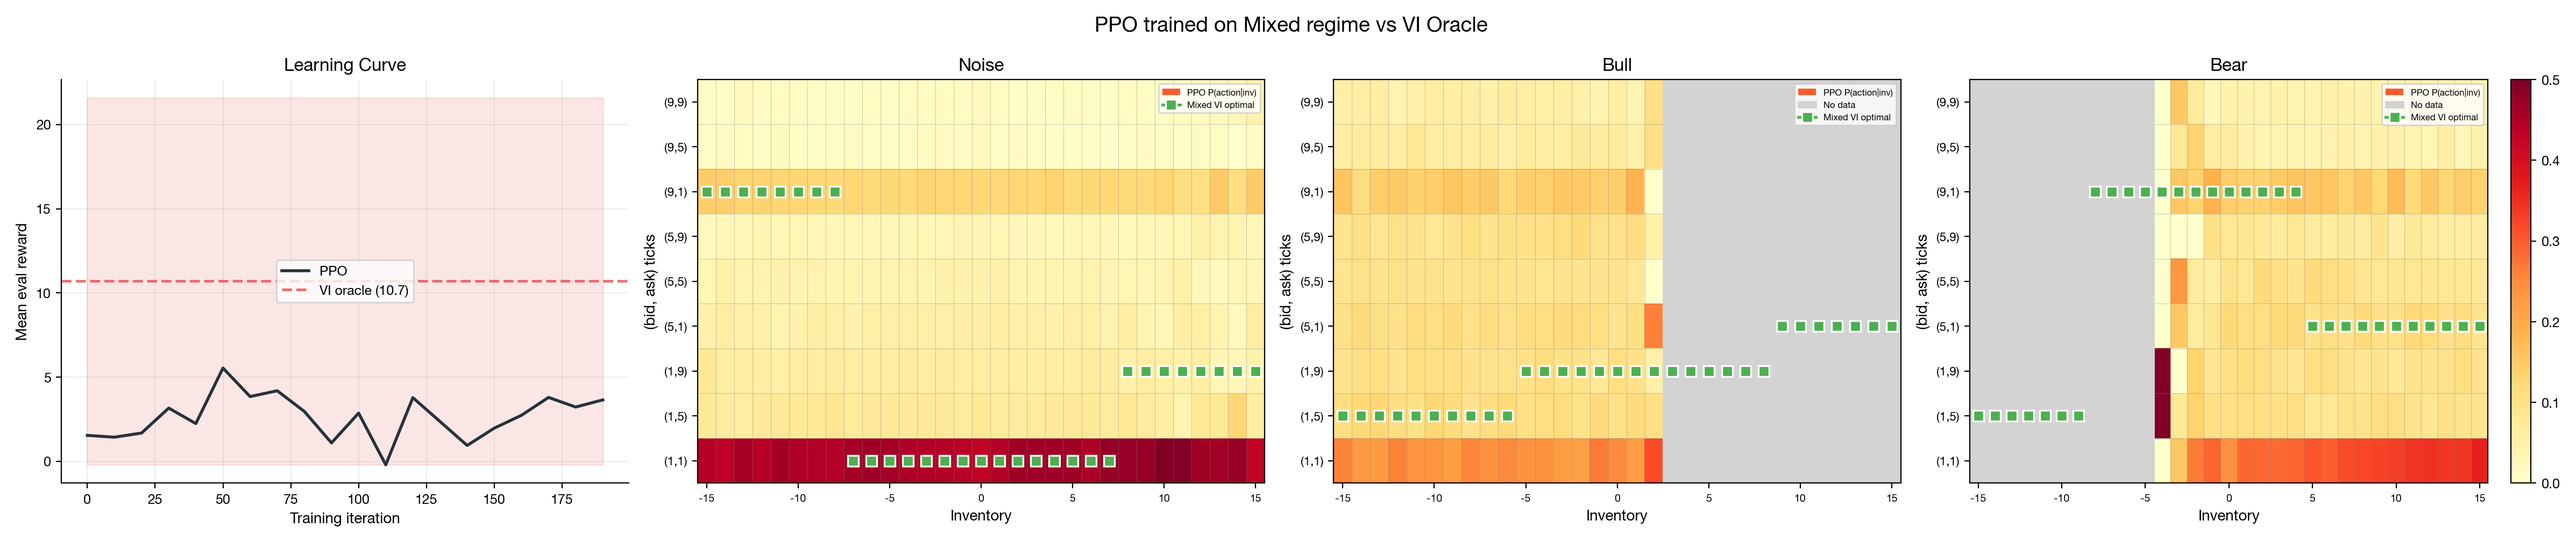
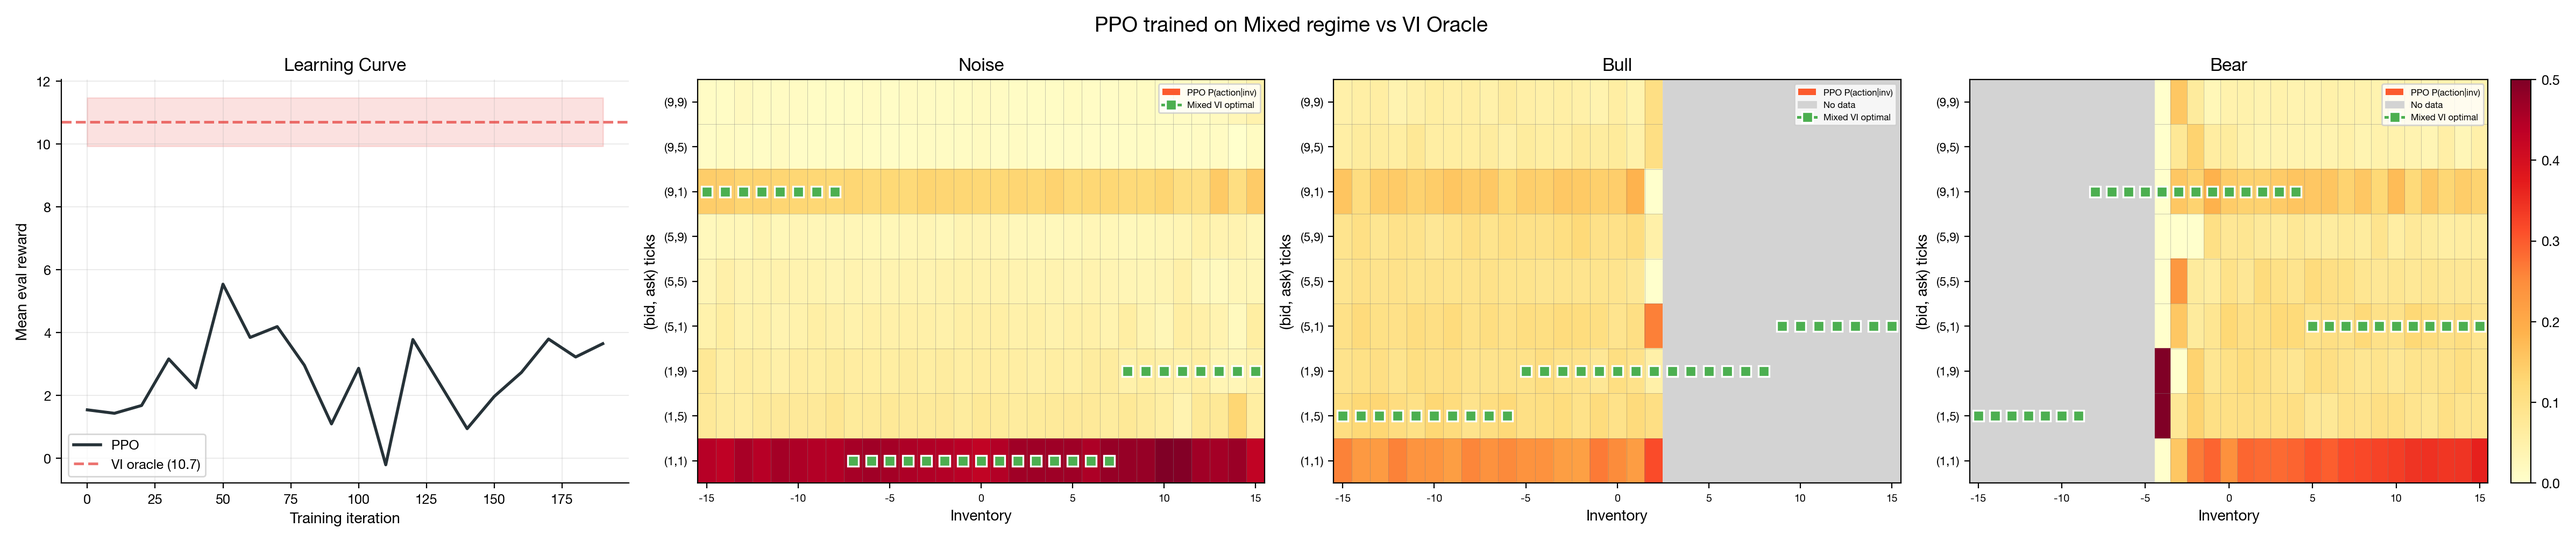
ppo vs vi done

Changed region(s): [[0.0311, 0.2151, 0.2489, 0.891]]

diff --git a/scripts/plot_agent.py b/scripts/plot_agent.py
@@ -124,10 +124,12 @@ for regime_name in regimes_to_plot:
                   color=MIXED_COLOR, linewidth=2, label=f"{agent_upper}")
     ax_train.axhline(vi_reward, color=VI_COLOR, linestyle="--", alpha=0.7,
                      label=f"VI oracle ({vi_reward:.1f})")
+    n_vi_eval = vi_eval["n_eval"]
+    vi_reward_sem = vi_reward_std / np.sqrt(n_vi_eval)
     iters = training["iters"]
     ax_train.fill_between(iters,
-                          vi_reward - vi_reward_std, vi_reward + vi_reward_std,
-                          color=VI_COLOR, alpha=0.12)
+                          vi_reward - vi_reward_sem, vi_reward + vi_reward_sem,
+                          color=VI_COLOR, alpha=0.15)
     ax_train.set_xlabel("Training iteration")
     ax_train.set_ylabel("Mean eval reward")
     ax_train.set_title("Learning Curve")
